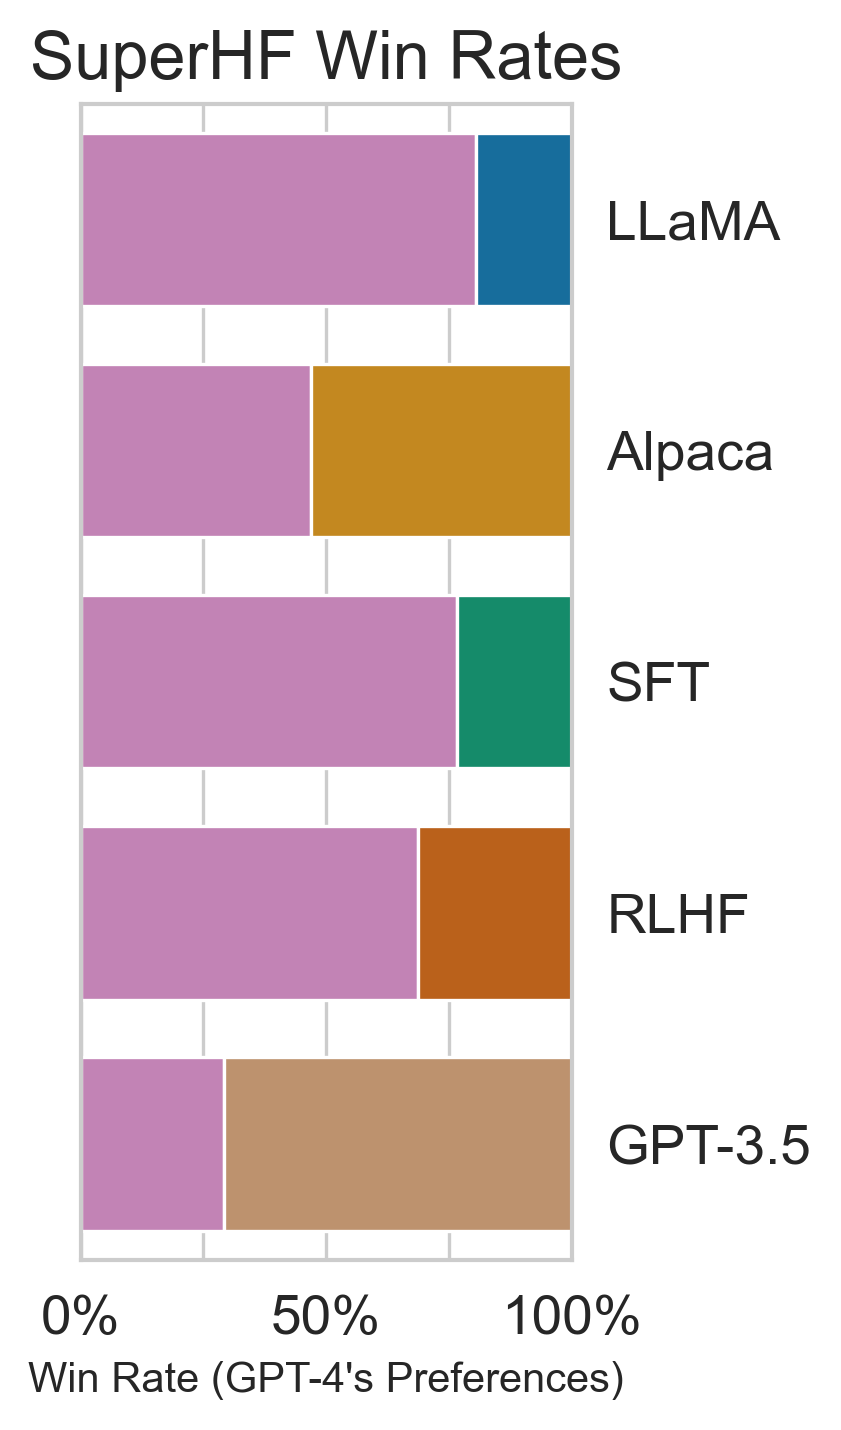
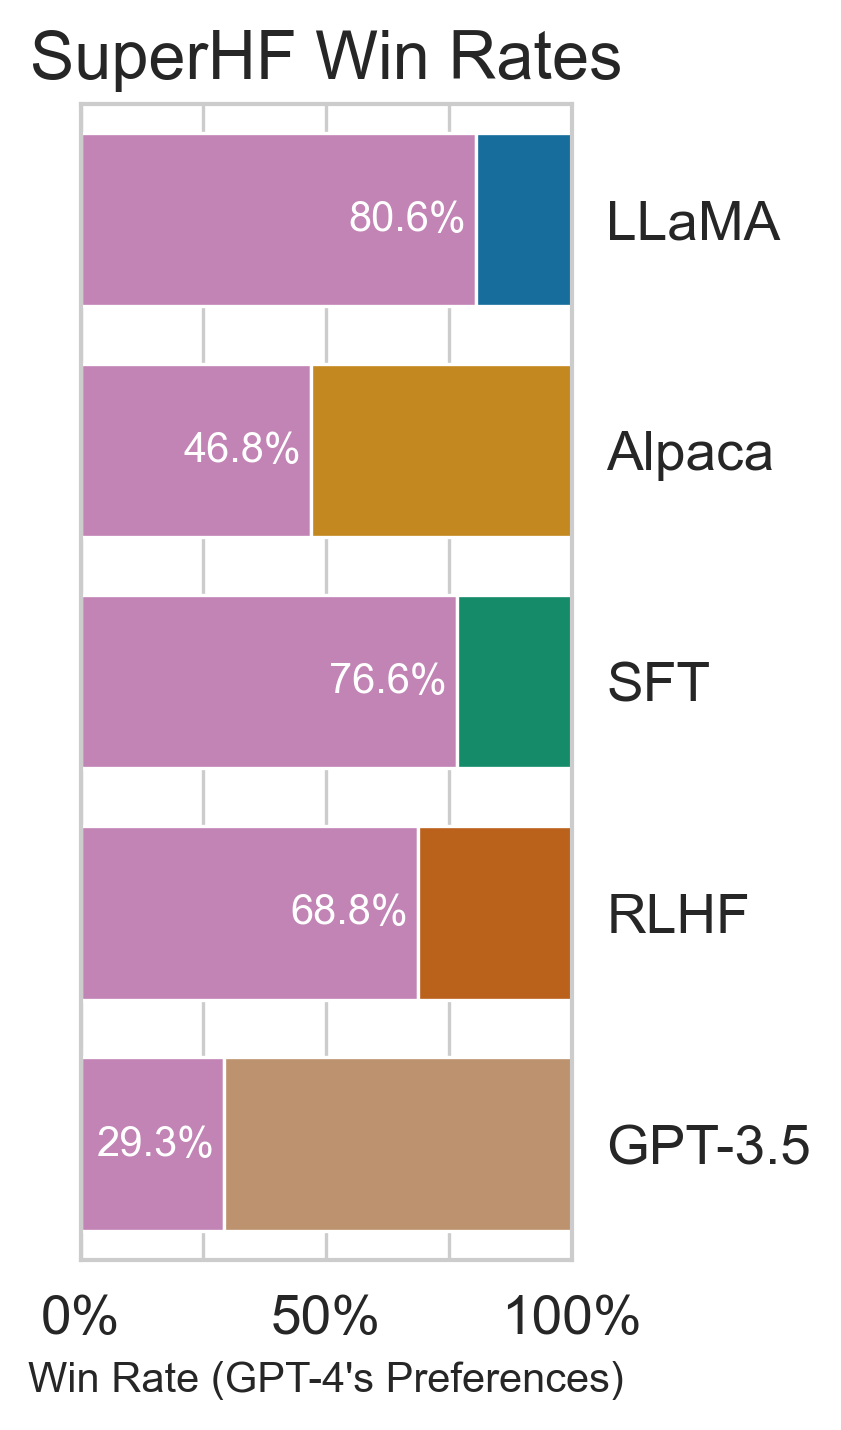
Label winrates

diff --git a/charts/win_rates_plot.py b/charts/win_rates_plot.py
@@ -51,6 +51,19 @@ def main() -> None:
         # color=model_type_to_palette_color("other"),
     )
 
+    # Add data labels to the bars
+    for i, value in enumerate(superhf_win_rates):
+        plot.text(
+            value - 2,
+            i,
+            f"{value:.1f}%",
+            color="white",
+            horizontalalignment="right",
+            verticalalignment="center",
+            # fontweight="bold",
+            fontsize=10,
+        )
+
     plot.set_xlabel("Win Rate (GPT-4's Preferences)", fontsize=10)
     plot.set_title("SuperHF Win Rates")
 
@@ -64,9 +77,6 @@ def main() -> None:
 
     # Tight layout
     plt.tight_layout()
-
-    # Minimal page margins
-    # plt.rcParams["savefig.pad_inches"] = 0
 
     # Save the chart
     save_plot(OUTPUT_FILE)
